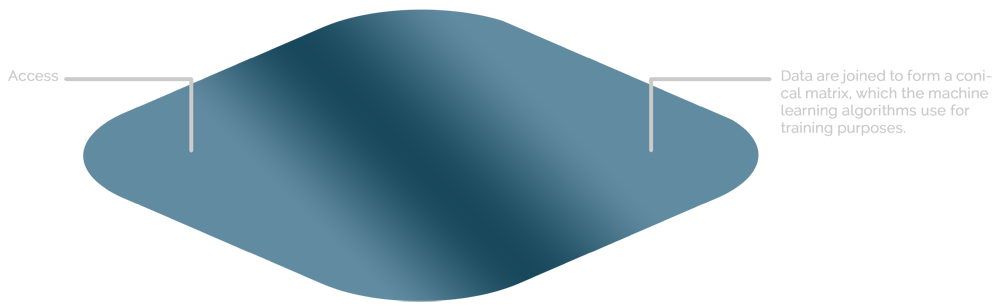
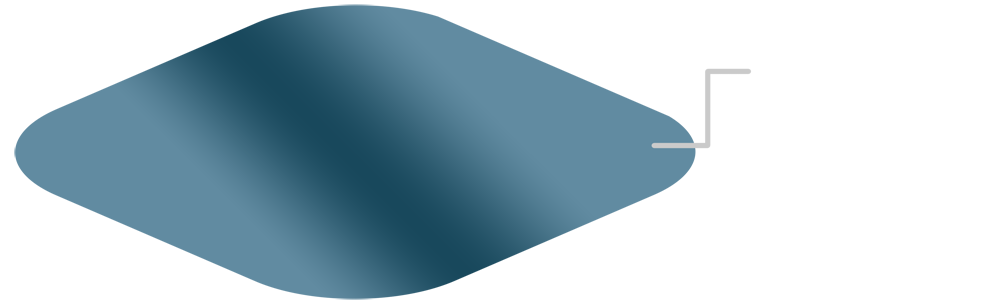
fix the image layers

Changed region(s): [[0.0, 0.0, 0.992, 1.0]]

diff --git a/js/script.js b/js/script.js
@@ -58,64 +58,65 @@ $(function(){
 	$('#fifth-layer').hover(function(){
 		$(this).css('background','url("images/home_page/data_stack/layers/api.png") no-repeat')
 			.css('background-size', '924px')
-			.css('background-position', 'center')
-			.css('margin-left', '137px');
+			//.css('background-position', 'center')
+			.css('margin-left', '-8px');
 
 	},function(){
 		$(this).css('background','url("images/home_page/data_stack/transparent/layer5.png") no-repeat')
 			.css('background-size', '650px')
-			.css('background-position', 'center')
+			//.css('background-position', 'center')
+			//.css('margin-left', '-110px');
 			.css('margin-left', '0px');
 	});
 	$('#fourth-layer').hover(function(){
 		$(this).css('background','url("images/home_page/data_stack/layers/machine_learning.png") no-repeat')
 			.css('background-size', '924px')
-			.css('background-position', 'center')
-			.css('margin-left', '137px');
+			//.css('background-position', 'center')
+			.css('margin-left', '-8px');
 
 	},function(){
 		$(this).css('background','url("images/home_page/data_stack/transparent/layer4.png") no-repeat')
 			.css('background-size', '650px')
-			.css('background-position', 'center')
+			//.css('background-position', 'center')
 			.css('margin-left', '0px');
 
 	});
 	$('#third-layer').hover(function(){
 		$(this).css('background','url("images/home_page/data_stack/layers/access.png") no-repeat')
 			.css('background-size', '924px')
-			.css('background-position', 'center')
-			.css('margin-left', '137px');
+			//.css('background-position', 'center')
+			.css('margin-left', '-8px');
 
 	},function(){
 		$(this).css('background','url("images/home_page/data_stack/transparent/layer3.png") no-repeat')
 			.css('background-size', '650px')
-			.css('background-position', 'center')
+			//.css('background-position', 'center')
 			.css('margin-left', '0px');
 
 	});
 	$('#second-layer').hover(function(){
-		$(this).css('background','url("images/home_page/data_stack/layers/etl.png") no-repeat')
+		$(this).css('background','url("images/home_page/data_stack/layers/infrastructure.png") no-repeat')
 			.css('background-size', '924px')
-			.css('background-position', 'center')
-			.css('margin-left', '137px');
+			//.css('background-position', 'center')
+			.css('margin-left', '-8px');
 
 	},function(){
 		$(this).css('background','url("images/home_page/data_stack/transparent/layer2.png") no-repeat')
 			.css('background-size', '650px')
-			.css('background-position', 'center')
+			//.css('background-position', 'center')
 			.css('margin-left', '0px');
 
 	});
 	$('#first-layer').hover(function(){
-		$(this).css('background','url("images/home_page/data_stack/layers/infrastructure.png") no-repeat')
+		$(this).css('background','url("images/home_page/data_stack/layers/etl.png") no-repeat')
 			.css('background-size', '924px')
-			.css('background-position', 'center')
-			.css('margin-left', '137px');
+			//.css('background-position', 'center')
+			.css('margin-left', '-8px');
 
 	},function(){
 		$(this).css('background','url("images/home_page/data_stack/transparent/layer1.png") no-repeat')
 			.css('background-size', '650px')
-			.css('background-position', 'center')
+			//.css('background-position', 'center')
 			.css('margin-left', '0px');
 
 	});

diff --git a/styles/home_page.css b/styles/home_page.css
@@ -199,19 +199,19 @@ body {
     position: relative; }
   body #data-stack #layer-container div:nth-child(1) {
     background: url("../images/home_page/data_stack/transparent/layer5.png") no-repeat;
-    z-index: 60; background-size:650px; background-position:center;}
+    z-index: 60; background-size:650px;}
   body #data-stack #layer-container div:nth-child(2) {
     background: url("../images/home_page/data_stack/transparent/layer4.png") no-repeat;
-    z-index: 50; background-size:650px; background-position:center;}
+    z-index: 50; background-size:650px;}
   body #data-stack #layer-container div:nth-child(3) {
     background: url("../images/home_page/data_stack/transparent/layer3.png") no-repeat;
-    z-index: 40; background-size:650px; background-position:center;}
+    z-index: 40; background-size:650px;}
   body #data-stack #layer-container div:nth-child(4) {
     background: url("../images/home_page/data_stack/transparent/layer2.png") no-repeat;
-    z-index: 30; background-size:650px; background-position:center;}
+    z-index: 30; background-size:650px;}
   body #data-stack #layer-container div:nth-child(5) {
     background: url("../images/home_page/data_stack/transparent/layer1.png") no-repeat;
-    z-index: 20; background-size:650px; background-position:center;}
+    z-index: 20; background-size:650px;}
   body .full-width-button {
     display: inline-block;
     background-color: #464c57;
@@ -298,17 +298,17 @@ body #contact {
 body .full-width-button {
   width: 800px; }
 body #data-stack {
-  margin: 0 auto;
+  margin: 0 195px 0;
   padding: 30px 0 0 0;
   width: 1080px;
   height: 750px; }
   body #data-stack h1 {
-    width: 360px;
-    margin: 0 0 45px 110px;
+    width: 370px;
+    margin: 0 0 75px;
     padding-bottom: 10px;
     font-size: 1.45em;
     letter-spacing: .2em;
-    text-align: center; }
+    line-height: 27px; }
   body #data-stack #layer-container {
     amargin:65px 0 0 200px;}
     body #data-stack #layer-container div {

diff --git a/styles/company.css b/styles/company.css
@@ -68,6 +68,27 @@ a, a:visited, a:hover {
 body {
   font-family: "Raleway", sans-serif; }
 
+body:after {
+  content: "";
+  height: 600px;
+  width:100%;
+  position: fixed;
+  left: 0;
+  right: 0;
+  bottom: 45px;
+  background-image: url('../images/customers_page/sf_bay.jpg');
+  background-size:cover;
+
+  background-repeat: no-repeat;
+  z-index: 1;}
+
+body .curtain {
+  z-index:2;
+  background-color:#2e2f2e;
+  position:relative;
+  padding:40px 0;}
+  body #about {padding:96px 0;}
+
 nav {
   position: absolute;
   cursor: pointer; }
@@ -88,7 +109,7 @@ html {
 
 .inside-page {
   width: 1280px;
-  padding: 85px 0; }
+  padding: 0px 0; }
   .inside-page .main-content {
     width: 625px; }
   .inside-page h1 {

diff --git a/company.php b/company.php
@@ -6,39 +6,44 @@
 	<link rel="stylesheet" type="text/css" href="styles/company.css">
 </head>
 <body class="inside-page">
-	<?php include('includes/main_nav.php'); ?>
-	<div class="main-content">
-		<h1>About Serial Metrics</h1>
-		<p>
-			Founded in 2010, Serial Metrics delivers data science solutions to 
-			both enterprise companies and newly-minted start-ups.  
-		</p>
-		<p>
-			Serial Metrics leads in delivering data science solutions that help 
-			companies effectively mine their data to build algorithmic, 
-			server-side applications that solve a variety of common business problems. 
-			Companies leverage Serial Metrics APIs to offer their customers innovative 
-			solutions such as dynamic pricing, highly-targeted personalized recommendations, 
-			curated content, etc. With Serial Metrics, companies no longer need to address 
-			their data science issues with traditional in-house means to derive solutions 
-			from scratch; leveraging Serial Metrics&rsquo; suite of machine learning modules 
-			solves the most complex data science problems facing today&rsquo;s companies.
-		</p>
-	</div>
-	<img src="images/customers_page/sf_bay.jpg" class="full-width">
-	<div class="main-content">
-		<h1>Our Team</h1>
-		<ul>
-			<li><strong>Amir Behbehani</strong> - Founder / Algorithms</li>
-			<li><strong>Emiko Higashi</strong> - Partnerships</li>
-			<li><strong>Bjorn Cooley</strong> - Development</li>
-			<li><strong>Igor Savic</strong> - Engineering</li>
-			<li><strong>Jason Yu</strong> - Research</li>
-			<li><strong>Ben Smucker</strong> - Sales</li>
-			<li><strong>Imran Khalik</strong> - Legal</li>
-			<li><strong>Katherin Yi </strong> - Data Science</li>
-		</ul>
-	</div>
-	<?php include('includes/footer.php'); ?>
+	<section class="curtain" id="about">
+		<?php include('includes/main_nav.php'); ?>
+		<div class="main-content">
+			<h1>About Serial Metrics</h1>
+			<p>
+				Founded in 2010, Serial Metrics delivers data science solutions to
+				both enterprise companies and newly-minted start-ups.
+			</p>
+			<p>
+				Serial Metrics leads in delivering data science solutions that help
+				companies effectively mine their data to build algorithmic,
+				server-side applications that solve a variety of common business problems.
+				Companies leverage Serial Metrics APIs to offer their customers innovative
+				solutions such as dynamic pricing, highly-targeted personalized recommendations,
+				curated content, etc. With Serial Metrics, companies no longer need to address
+				their data science issues with traditional in-house means to derive solutions
+				from scratch; leveraging Serial Metrics&rsquo; suite of machine learning modules
+				solves the most complex data science problems facing today&rsquo;s companies.
+			</p>
+		</div>
+	</section>
+	<section style="height:630px">
+	</section>
+	<section class="curtain team">
+		<div class="main-content">
+			<h1>Our Team</h1>
+			<ul>
+				<li><strong>Amir Behbehani</strong> - Founder / Algorithms</li>
+				<li><strong>Emiko Higashi</strong> - Partnerships</li>
+				<li><strong>Bjorn Cooley</strong> - Development</li>
+				<li><strong>Igor Savic</strong> - Engineering</li>
+				<li><strong>Jason Yu</strong> - Research</li>
+				<li><strong>Ben Smucker</strong> - Sales</li>
+				<li><strong>Imran Khalik</strong> - Legal</li>
+				<li><strong>Katherin Yi </strong> - Data Science</li>
+			</ul>
+		</div>
+		<?php include('includes/footer.php'); ?>
+	</section>
 </body>
 </html>

diff --git a/services.php b/services.php
@@ -32,7 +32,7 @@
 	<section class="curtain">
 		<div class="main-content">
 			<h2><a href="module_products.php">Why reinvent the wheel?</a></h2>
-			<p>Serial Metrics offers sets of APIs that use your data. We leverage cutting edge machine learning techniques to solve your company’s most complex problems.</p>
+			<p>Serial Metrics offers sets of APIs that use your data. We leverage cutting edge machine learning techniques to solve your company&lsquo;s most complex problems.</p>
 
 			<h2>Methodology</h2>
 			<h3><span style="font-size: 1.17em;">Our services cover the full stack</span></h3>
